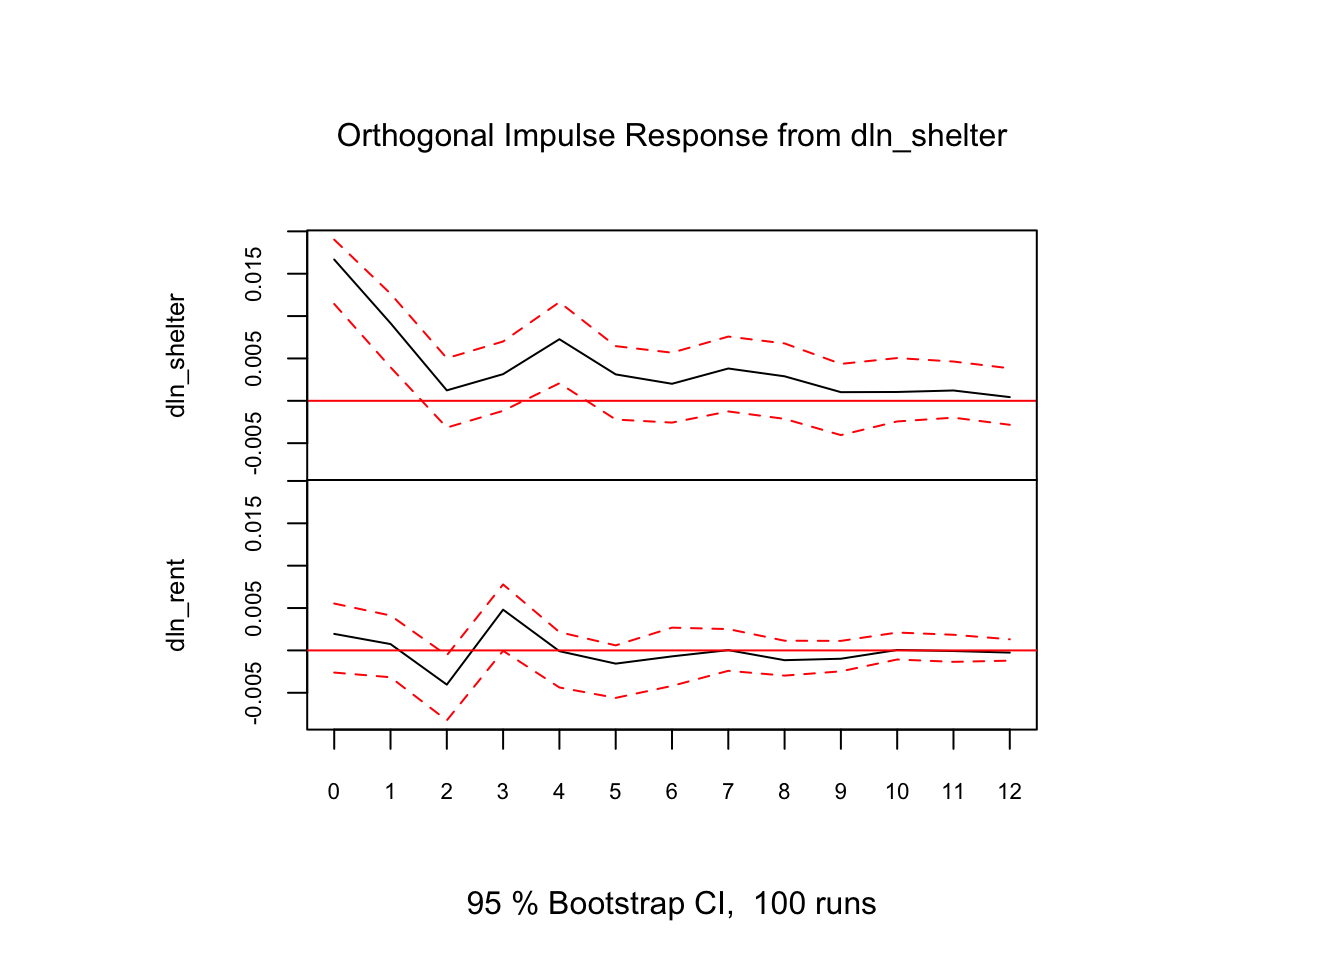
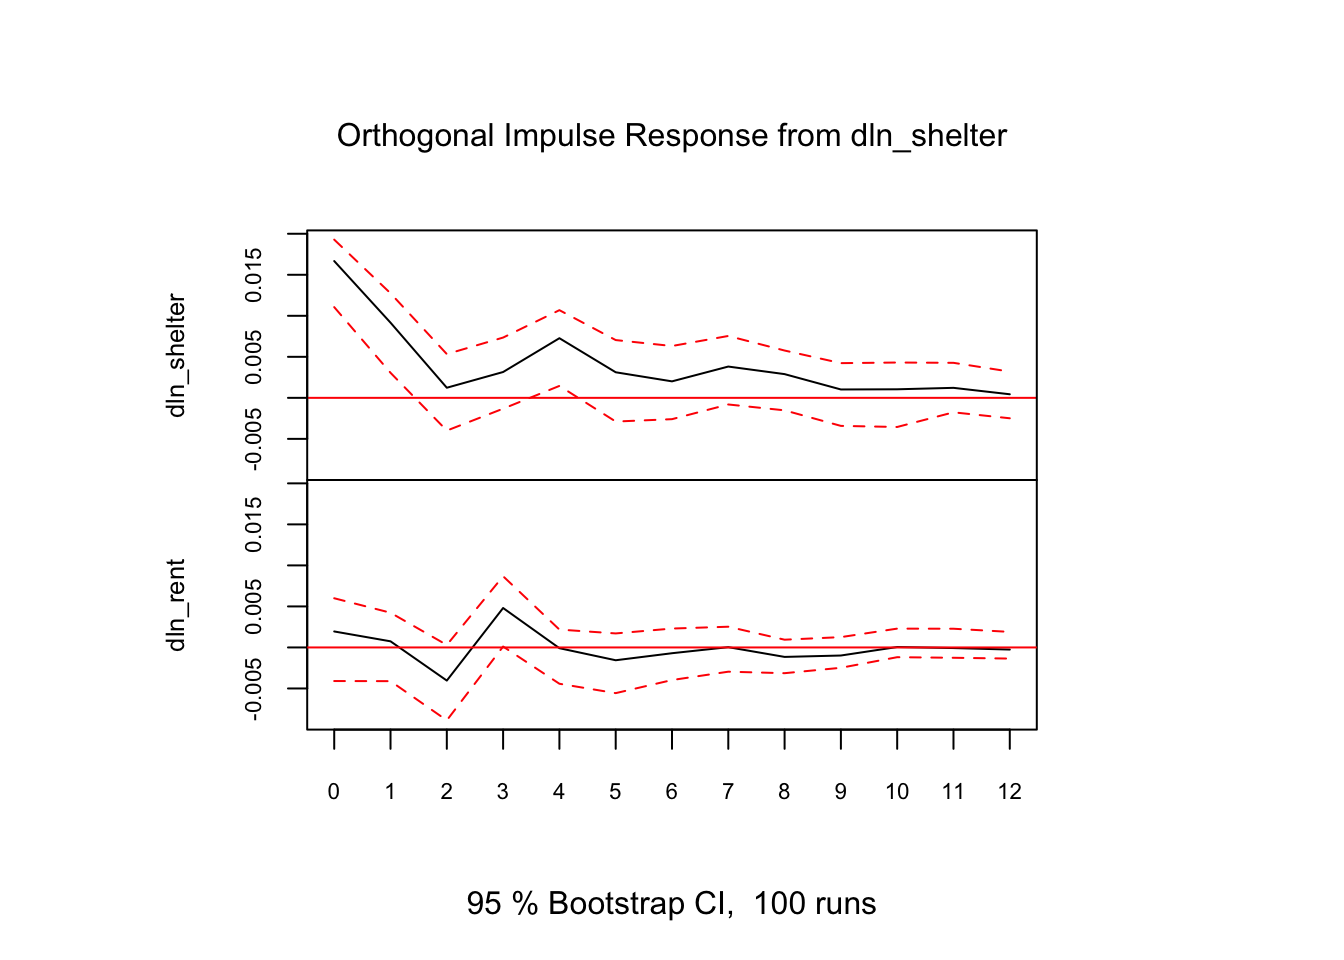
add MDS clustering visualization

diff --git a/docs/visualizations.html b/docs/visualizations.html
@@ -188,51 +188,6 @@ ul.task-list li input[type="checkbox"] {
 </div>
 </section>
 </div>
-<div class="viz-card">
-<p><a href="assets/images/visualizations/Europe_Refugees.png" class="viz-link" target="_blank"><img src="assets/images/visualizations/Europe_Refugees.png" class="viz-img img-fluid"></a></p>
-<section id="refugee-influx-groups-in-europe-20102023" class="level3 viz-body">
-<h3 class="anchored" data-anchor-id="refugee-influx-groups-in-europe-20102023">Refugee Influx Groups in Europe (2010–2023)</h3>
-<div class="viz-caption">
-<p>Classification based on median and upper-quartile thresholds (refugees per 1,000 residents).</p>
-</div>
-<div class="viz-tags">
-<p><span class="tag">Spatial</span> <span class="tag">Migration</span> <span class="tag">choropleth</span></p>
-</div>
-<div class="viz-actions">
-<p><a href="assets/images/visualizations/Europe_Refugees.png" class="btn btn-outline-primary" target="_blank">Open</a></p>
-</div>
-</section>
-</div>
-<div class="viz-card">
-<p><a href="assets/images/visualizations/Housing_Prices_Distribution_Overtime.png" class="viz-link" target="_blank"><img src="assets/images/visualizations/Housing_Prices_Distribution_Overtime.png" class="viz-img img-fluid"></a></p>
-<section id="distribution-of-eu-housing-price-index-over-time" class="level3 viz-body">
-<h3 class="anchored" data-anchor-id="distribution-of-eu-housing-price-index-over-time">Distribution of EU Housing Price Index Over Time</h3>
-<div class="viz-caption">
-<p>Ridgeline distributions showing the shift in HPI across years.</p>
-</div>
-<div class="viz-tags">
-<p><span class="tag">Housing</span> <span class="tag">Distribution</span></p>
-</div>
-<div class="viz-actions">
-<p><a href="assets/images/visualizations/Housing_Prices_Distribution_Overtime.png" class="btn btn-outline-primary" target="_blank">Open</a></p>
-</div>
-</section>
-</div>
-<div class="viz-card">
-<p><a href="assets/images/visualizations/forecast_of_rent.png" class="viz-link" target="_blank"><img src="assets/images/visualizations/forecast_of_rent.png" class="viz-img img-fluid"></a></p>
-<section id="median-rent-actual-and-forecast" class="level3 viz-body">
-<h3 class="anchored" data-anchor-id="median-rent-actual-and-forecast">Median Rent: Actual and Forecast</h3>
-<div class="viz-caption">
-<p>Observed median rent with forecast extension (dashed).</p>
-</div>
-<div class="viz-tags">
-<p><span class="tag">VAR</span> <span class="tag">Time series</span></p>
-</div>
-<div class="viz-actions">
-<p><a href="assets/images/visualizations/forecast_of_rent.png" class="btn btn-outline-primary" target="_blank">Open</a></p>
-</div>
-</section>
-</div>
 </div>
 
 

diff --git a/docs/projects/Refugees_EU.html b/docs/projects/Refugees_EU.html
@@ -700,8 +700,8 @@ Figure&nbsp;1
 
     <script>
 
-      function styleCell_2v4j9z8r0efv6vyd9y7r(i, j, css_id) {
-          var table = document.getElementById("tinytable_2v4j9z8r0efv6vyd9y7r");
+      function styleCell_hdk6nqu87al5qxhwcnum(i, j, css_id) {
+          var table = document.getElementById("tinytable_hdk6nqu87al5qxhwcnum");
           var cell = table.querySelector(`[data-row="${i}"][data-col="${j}"]`);
           if (cell) {
               console.log(`Styling cell at (${i}, ${j}) with class ${css_id}`);
@@ -710,8 +710,8 @@ Figure&nbsp;1
               console.warn(`Cell at (${i}, ${j}) not found.`);
           }
       }
-      function spanCell_2v4j9z8r0efv6vyd9y7r(i, j, rowspan, colspan) {
-        var table = document.getElementById("tinytable_2v4j9z8r0efv6vyd9y7r");
+      function spanCell_hdk6nqu87al5qxhwcnum(i, j, rowspan, colspan) {
+        var table = document.getElementById("tinytable_hdk6nqu87al5qxhwcnum");
         const targetCell = table.querySelector(`[data-row="${i}"][data-col="${j}"]`);
         if (!targetCell) {
           console.warn(`Cell at (${i}, ${j}) not found.`);
@@ -742,20 +742,20 @@ Figure&nbsp;1
       window.addEventListener('load', function () {
           var cellsToStyle = [
             // tinytable style arrays after
-          { positions: [ { i: '9', j: 1 }, { i: '9', j: 2 },  ], css_id: 'tinytable_css_r5dt3hlzzs6f4gvv4hg6',}, 
-          { positions: [ { i: '6', j: 2 }, { i: '6', j: 1 },  ], css_id: 'tinytable_css_nmn8f3pjqdu1qlk2jd04',}, 
-          { positions: [ { i: '1', j: 1 }, { i: '3', j: 1 }, { i: '4', j: 1 }, { i: '5', j: 1 }, { i: '2', j: 1 }, { i: '7', j: 1 }, { i: '8', j: 1 }, { i: '3', j: 2 }, { i: '4', j: 2 }, { i: '1', j: 2 }, { i: '2', j: 2 }, { i: '7', j: 2 }, { i: '8', j: 2 }, { i: '5', j: 2 },  ], css_id: 'tinytable_css_9tk145uojprwnh0u6a3f',}, 
-          { positions: [ { i: '0', j: 1 }, { i: '0', j: 2 },  ], css_id: 'tinytable_css_dm6y4ha3mr0vmipoi58g',}, 
-          { positions: [ { i: '9', j: 0 },  ], css_id: 'tinytable_css_aup5gn3f8ktkekuk8znq',}, 
-          { positions: [ { i: '6', j: 0 },  ], css_id: 'tinytable_css_fbbr849795ti0wga04oy',}, 
-          { positions: [ { i: '1', j: 0 }, { i: '2', j: 0 }, { i: '3', j: 0 }, { i: '4', j: 0 }, { i: '5', j: 0 }, { i: '7', j: 0 }, { i: '8', j: 0 },  ], css_id: 'tinytable_css_t63wlcelgdy58mpbx4q3',}, 
-          { positions: [ { i: '0', j: 0 },  ], css_id: 'tinytable_css_p3zyv0b5fmmb09t4dywa',}, 
+          { positions: [ { i: '9', j: 1 }, { i: '9', j: 2 },  ], css_id: 'tinytable_css_cffdnu6mnougx3ig05g5',}, 
+          { positions: [ { i: '6', j: 2 }, { i: '6', j: 1 },  ], css_id: 'tinytable_css_y0pbzz45ikzfojlz3y6j',}, 
+          { positions: [ { i: '1', j: 1 }, { i: '3', j: 1 }, { i: '4', j: 1 }, { i: '5', j: 1 }, { i: '2', j: 1 }, { i: '7', j: 1 }, { i: '8', j: 1 }, { i: '3', j: 2 }, { i: '4', j: 2 }, { i: '1', j: 2 }, { i: '2', j: 2 }, { i: '7', j: 2 }, { i: '8', j: 2 }, { i: '5', j: 2 },  ], css_id: 'tinytable_css_3lpvr5o5z6i5kjop12o0',}, 
+          { positions: [ { i: '0', j: 1 }, { i: '0', j: 2 },  ], css_id: 'tinytable_css_zyxisu08h2vzv7mfzvfx',}, 
+          { positions: [ { i: '9', j: 0 },  ], css_id: 'tinytable_css_v5ag298zzij47x2zr82e',}, 
+          { positions: [ { i: '6', j: 0 },  ], css_id: 'tinytable_css_1ndk52nscue2zbpdn3j6',}, 
+          { positions: [ { i: '1', j: 0 }, { i: '2', j: 0 }, { i: '3', j: 0 }, { i: '4', j: 0 }, { i: '5', j: 0 }, { i: '7', j: 0 }, { i: '8', j: 0 },  ], css_id: 'tinytable_css_xty8miw67k6f7bfvf1b1',}, 
+          { positions: [ { i: '0', j: 0 },  ], css_id: 'tinytable_css_v1mdh4v8q4q1xp214guh',}, 
           ];
 
           // Loop over the arrays to style the cells
           cellsToStyle.forEach(function (group) {
               group.positions.forEach(function (cell) {
-                  styleCell_2v4j9z8r0efv6vyd9y7r(cell.i, cell.j, group.css_id);
+                  styleCell_hdk6nqu87al5qxhwcnum(cell.i, cell.j, group.css_id);
               });
           });
       });
@@ -763,17 +763,17 @@ Figure&nbsp;1
 
     <style>
       /* tinytable css entries after */
-      .table td.tinytable_css_r5dt3hlzzs6f4gvv4hg6, .table th.tinytable_css_r5dt3hlzzs6f4gvv4hg6 { text-align: center; border-bottom: solid #d3d8dc 0.1em; }
-      .table td.tinytable_css_nmn8f3pjqdu1qlk2jd04, .table th.tinytable_css_nmn8f3pjqdu1qlk2jd04 { text-align: center; border-bottom: solid black 0.05em; }
-      .table td.tinytable_css_9tk145uojprwnh0u6a3f, .table th.tinytable_css_9tk145uojprwnh0u6a3f { text-align: center; }
-      .table td.tinytable_css_dm6y4ha3mr0vmipoi58g, .table th.tinytable_css_dm6y4ha3mr0vmipoi58g { text-align: center; border-top: solid #d3d8dc 0.1em; border-bottom: solid #d3d8dc 0.05em; }
-      .table td.tinytable_css_aup5gn3f8ktkekuk8znq, .table th.tinytable_css_aup5gn3f8ktkekuk8znq { text-align: left; border-bottom: solid #d3d8dc 0.1em; }
-      .table td.tinytable_css_fbbr849795ti0wga04oy, .table th.tinytable_css_fbbr849795ti0wga04oy { text-align: left; border-bottom: solid black 0.05em; }
-      .table td.tinytable_css_t63wlcelgdy58mpbx4q3, .table th.tinytable_css_t63wlcelgdy58mpbx4q3 { text-align: left; }
-      .table td.tinytable_css_p3zyv0b5fmmb09t4dywa, .table th.tinytable_css_p3zyv0b5fmmb09t4dywa { text-align: left; border-top: solid #d3d8dc 0.1em; border-bottom: solid #d3d8dc 0.05em; }
+      .table td.tinytable_css_cffdnu6mnougx3ig05g5, .table th.tinytable_css_cffdnu6mnougx3ig05g5 { text-align: center; border-bottom: solid #d3d8dc 0.1em; }
+      .table td.tinytable_css_y0pbzz45ikzfojlz3y6j, .table th.tinytable_css_y0pbzz45ikzfojlz3y6j { text-align: center; border-bottom: solid black 0.05em; }
+      .table td.tinytable_css_3lpvr5o5z6i5kjop12o0, .table th.tinytable_css_3lpvr5o5z6i5kjop12o0 { text-align: center; }
+      .table td.tinytable_css_zyxisu08h2vzv7mfzvfx, .table th.tinytable_css_zyxisu08h2vzv7mfzvfx { text-align: center; border-top: solid #d3d8dc 0.1em; border-bottom: solid #d3d8dc 0.05em; }
+      .table td.tinytable_css_v5ag298zzij47x2zr82e, .table th.tinytable_css_v5ag298zzij47x2zr82e { text-align: left; border-bottom: solid #d3d8dc 0.1em; }
+      .table td.tinytable_css_1ndk52nscue2zbpdn3j6, .table th.tinytable_css_1ndk52nscue2zbpdn3j6 { text-align: left; border-bottom: solid black 0.05em; }
+      .table td.tinytable_css_xty8miw67k6f7bfvf1b1, .table th.tinytable_css_xty8miw67k6f7bfvf1b1 { text-align: left; }
+      .table td.tinytable_css_v1mdh4v8q4q1xp214guh, .table th.tinytable_css_v1mdh4v8q4q1xp214guh { text-align: left; border-top: solid #d3d8dc 0.1em; border-bottom: solid #d3d8dc 0.05em; }
     </style>
     <div class="container">
-      <table class="table table-borderless" id="tinytable_2v4j9z8r0efv6vyd9y7r" style="width: auto; margin-left: auto; margin-right: auto;" data-quarto-disable-processing="true">
+      <table class="table table-borderless" id="tinytable_hdk6nqu87al5qxhwcnum" style="width: auto; margin-left: auto; margin-right: auto;" data-quarto-disable-processing="true">
         <thead>
         
               <tr>